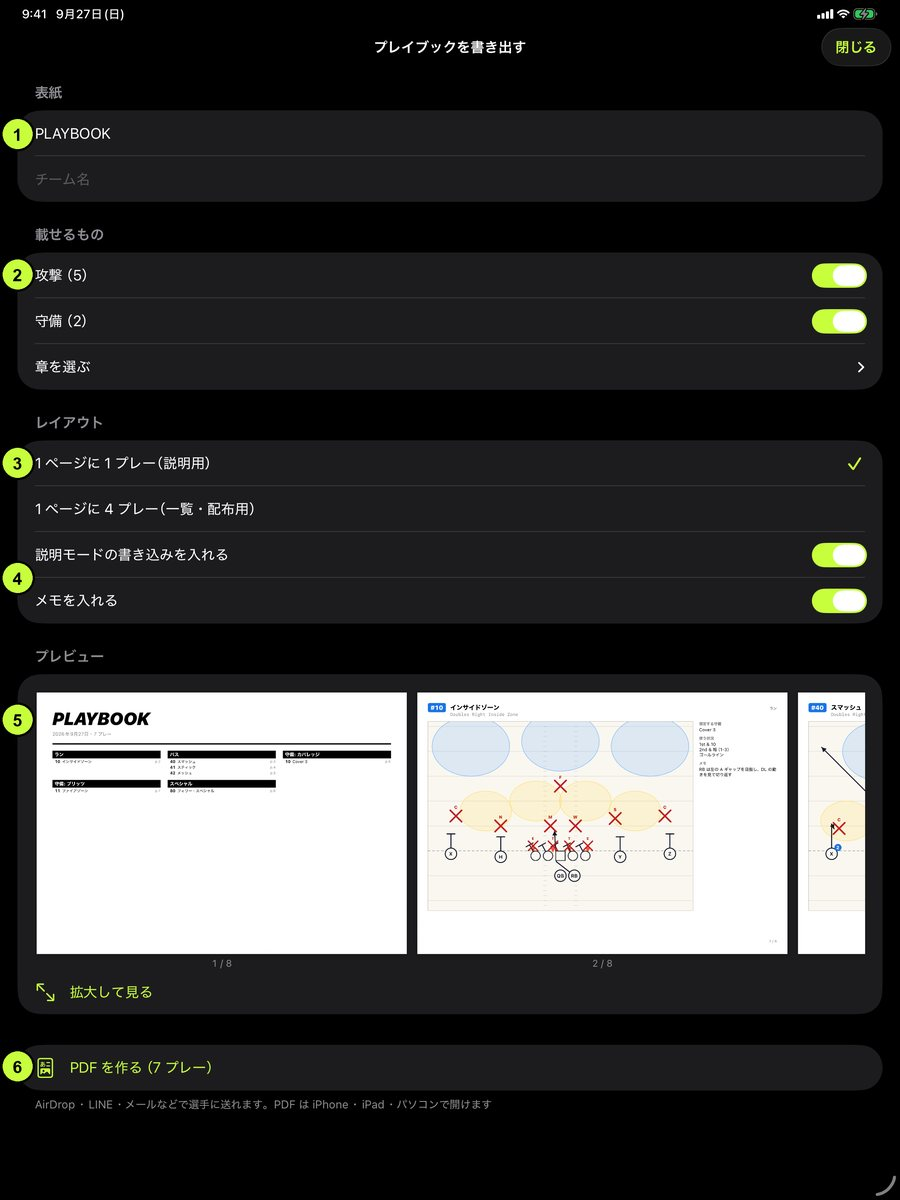
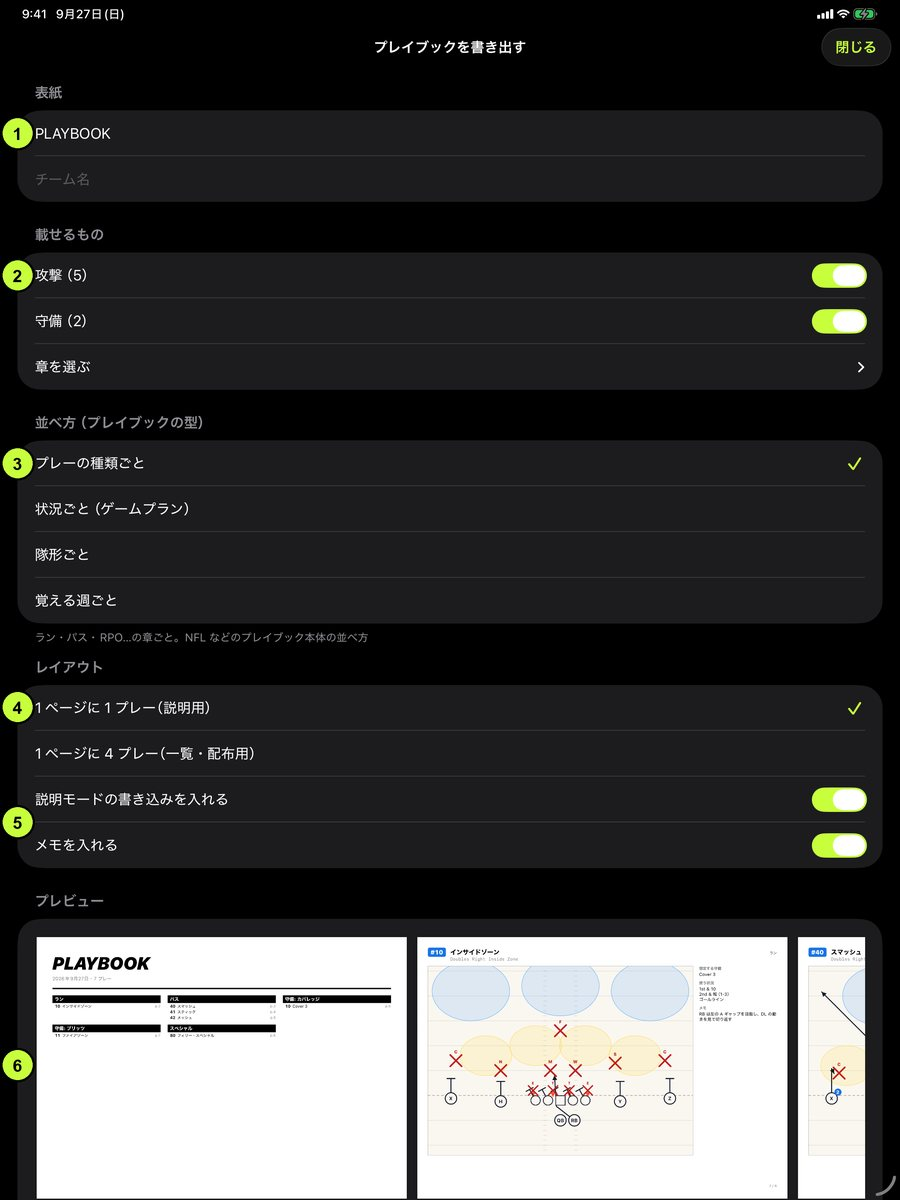
Playbook 使い方: 並べ方（4 つの型）と Excel 書き出しを追加

diff --git a/playbook-pages/guide.html b/playbook-pages/guide.html
@@ -67,6 +67,7 @@
     <li><a href="#present">説明モード</a></li>
     <li><a href="#live">選手への配信</a></li>
     <li><a href="#playbook">プレイブックを作る</a></li>
+    <li><a href="#excel">Excel</a></li>
     <li><a href="#callsheet">コールシート</a></li>
     <li><a href="#wristband">リストバンドを作る</a></li>
   </ul>
@@ -77,7 +78,7 @@
     <div>
       <ol class="keys">
         <li><b>攻撃／守備</b> — 一覧に出す側を切り替えます。新しく作るプレーもこの側になります</li>
-        <li><b>配る</b> — <a href="#playbook">プレイブック</a>・<a href="#callsheet">コールシート</a>・<a href="#wristband">リストバンド</a>の PDF を作ります</li>
+        <li><b>配る</b> — <a href="#playbook">プレイブック</a>・<a href="#callsheet">コールシート</a>・<a href="#wristband">リストバンド</a>の PDF と、<a href="#excel">Excel</a>（.xlsx）を作ります</li>
         <li><b>使い方</b> — アプリの中でもこの説明を見られます<span class="new">次のアップデート</span></li>
         <li><b>説明を見る</b> — 選手用。コーチの配信に参加します（無料）</li>
         <li><b>設定</b> — チーム名（PDF に印刷）と守備の記号（× か ■）</li>
@@ -176,17 +177,40 @@
   <ol class="keys">
     <li><b>表紙</b> — 表題（例: PLAYBOOK 2026）とチーム名</li>
     <li><b>載せるもの</b> — 攻撃・守備、「章を選ぶ」で章ごとに（例: 今週はパスだけ）</li>
+    <li><b>並べ方（プレイブックの型）</b><span class="new">次のアップデート</span> — 下の「並べ方を選ぶ」を参照。目次もこの並べ方になります</li>
     <li><b>レイアウト</b> — 「1 ページに 1 プレー（説明用）」か「1 ページに 4 プレー（一覧・配布用）」</li>
     <li><b>書き込み・メモ</b> — 説明モードの書き込みと、プレーのメモを入れるかどうか</li>
     <li><b>プレビュー</b> — 仕上がりが並びます。タップで拡大<span class="new">次のアップデート</span></li>
-    <li><b>PDF を作る</b></li>
   </ol>
-  <h3>できあがりの例</h3>
+
+  <h3>並べ方を選ぶ<span class="new">次のアップデート</span></h3>
+  <p>プレイブックの並べ方はチームによって違います。アメリカのチームの例を参考に、4 つの型から選べます。</p>
+  <table>
+    <tr><th>プレーの種類ごと</th><td>ラン・パス・RPO・スクリーン…の章ごと。NFL などのプレイブック本体はこの形で、ランの型 → パス（クイック・ドロップバック・プレーアクション）→ スクリーンの順に覚えていきます</td></tr>
+    <tr><th>状況ごと<br>（ゲームプラン）</th><td>1st &amp; 10・2nd &amp; 中・3rd &amp; 短・レッドゾーン・2 ミニッツなど、プレーの「使う状況」ごと。試合の週に配るゲームプランや、サイドラインのコールシートはこの形です。複数の状況に付いたプレーは、目次のそれぞれに載ります</td></tr>
+    <tr><th>隊形ごと</th><td>コールの隊形（Doubles・Trips・Pistol など）ごと。同じ並びから何ができるかが一目で分かります。高校やフラッグフットボールでよく使われます</td></tr>
+    <tr><th>覚える週ごと</th><td>プレーの「覚える週」ごと。キャンプやシーズン前に、少しずつ配って覚えてもらうとき</td></tr>
+  </table>
+  <p>攻撃と守備の両方を載せるときは、目次の見出しが「攻撃｜1st &amp; 10」「守備｜1st &amp; 10」のように分かれます。</p>
+  <div class="cards">
+    <figure><img src="img/guide_pb_cover_situation.jpg" alt="状況ごとの目次" loading="lazy" width="900" height="637"><figcaption>状況ごと: 1st &amp; 10・3rd &amp; 中・レッドゾーン…の順に目次が並ぶ</figcaption></figure>
+    <figure><img src="img/guide_pb_cover_formation.jpg" alt="隊形ごとの目次" loading="lazy" width="900" height="637"><figcaption>隊形ごと: Doubles・Pistol・Trips…ごとに並ぶ</figcaption></figure>
+  </div>
+
+  <h3>できあがりの例（プレーの種類ごと）</h3>
   <figure><img src="img/guide_pb_cover.jpg" alt="プレイブックの表紙と目次" loading="lazy" width="900" height="637"><figcaption>1 ページ目: 表紙と目次（章ごとに番号・プレー名・ページ）</figcaption></figure>
   <div class="cards">
     <figure><img src="img/guide_pb_pdf.jpg" alt="1 ページに 1 プレー" loading="lazy" width="900" height="637"><figcaption>1 ページに 1 プレー: 大きな図と、読む順番・想定する守備・使う状況・メモ</figcaption></figure>
     <figure><img src="img/guide_pb_pdf4.jpg" alt="1 ページに 4 プレー" loading="lazy" width="900" height="637"><figcaption>1 ページに 4 プレー: 一覧・配布用（紙を減らせる）</figcaption></figure>
   </div>
+
+  <h2 id="excel">Excel に書き出す<span class="new">次のアップデート</span></h2>
+  <p>一覧の「配る」→「Excel に書き出す（.xlsx）」で、プレーの一覧を表にして送れます。スタッフとゲームプランを組むときや、チームの表に貼り付けるときに使います。Excel・Numbers・Google スプレッドシートで開けます。</p>
+  <figure><img src="img/guide_xlsx.jpg" alt="Excel に書き出した表" loading="lazy" width="752" height="380"><figcaption>攻撃のシート（1 行目は固定・並べ替えとフィルターができます）</figcaption></figure>
+  <table>
+    <tr><th>攻撃・守備のシート</th><td>1 プレー 1 行。番号（版 A〜D）・プレー名・コール・章・隊形・使う状況・覚える週・読む順番・想定する守備・メモ</td></tr>
+    <tr><th>状況別のシート</th><td>状況ごとに 1 行ずつ（同じプレーが複数の状況に出ます）。フィルターで「3rd &amp; 中」だけにすると、その状況の候補がすぐ並びます</td></tr>
+  </table>
 
   <h2 id="callsheet">コールシート</h2>
   <figure><img src="img/guide_callsheet.jpg" alt="コールシートの例" loading="lazy" width="1000" height="706"><figcaption>コールシート（A4 横）。状況ごとに番号とコールが並び、□ は試合中のチェック用</figcaption></figure>
